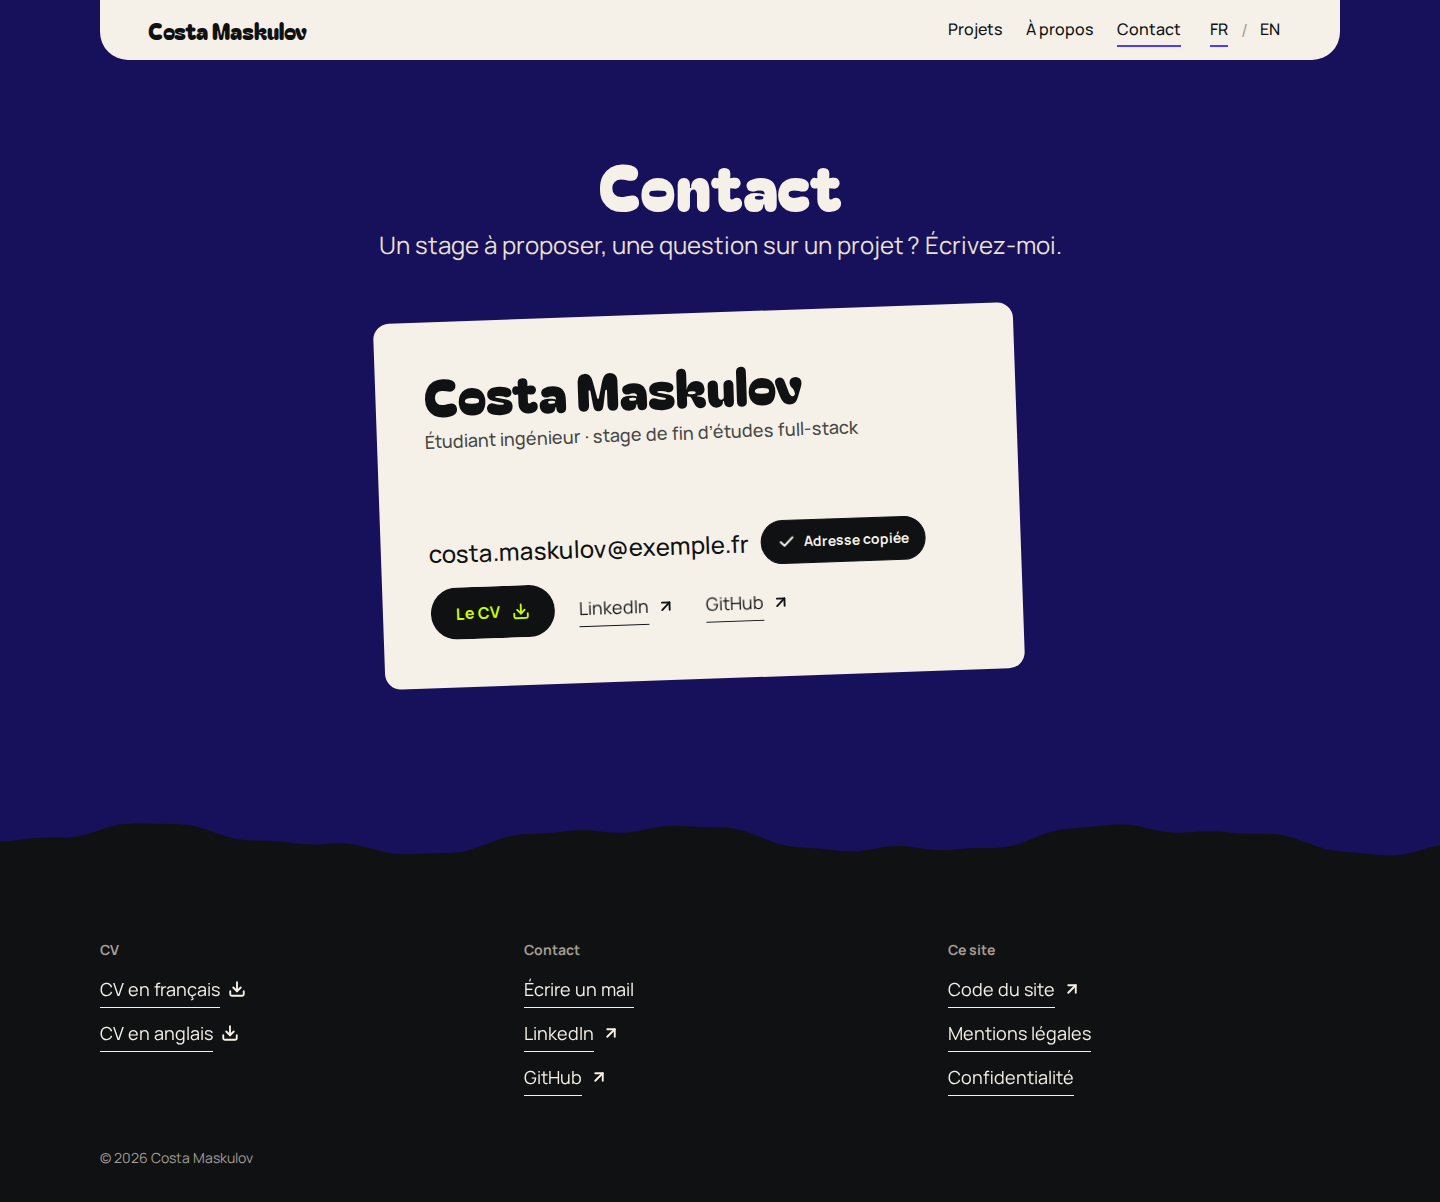
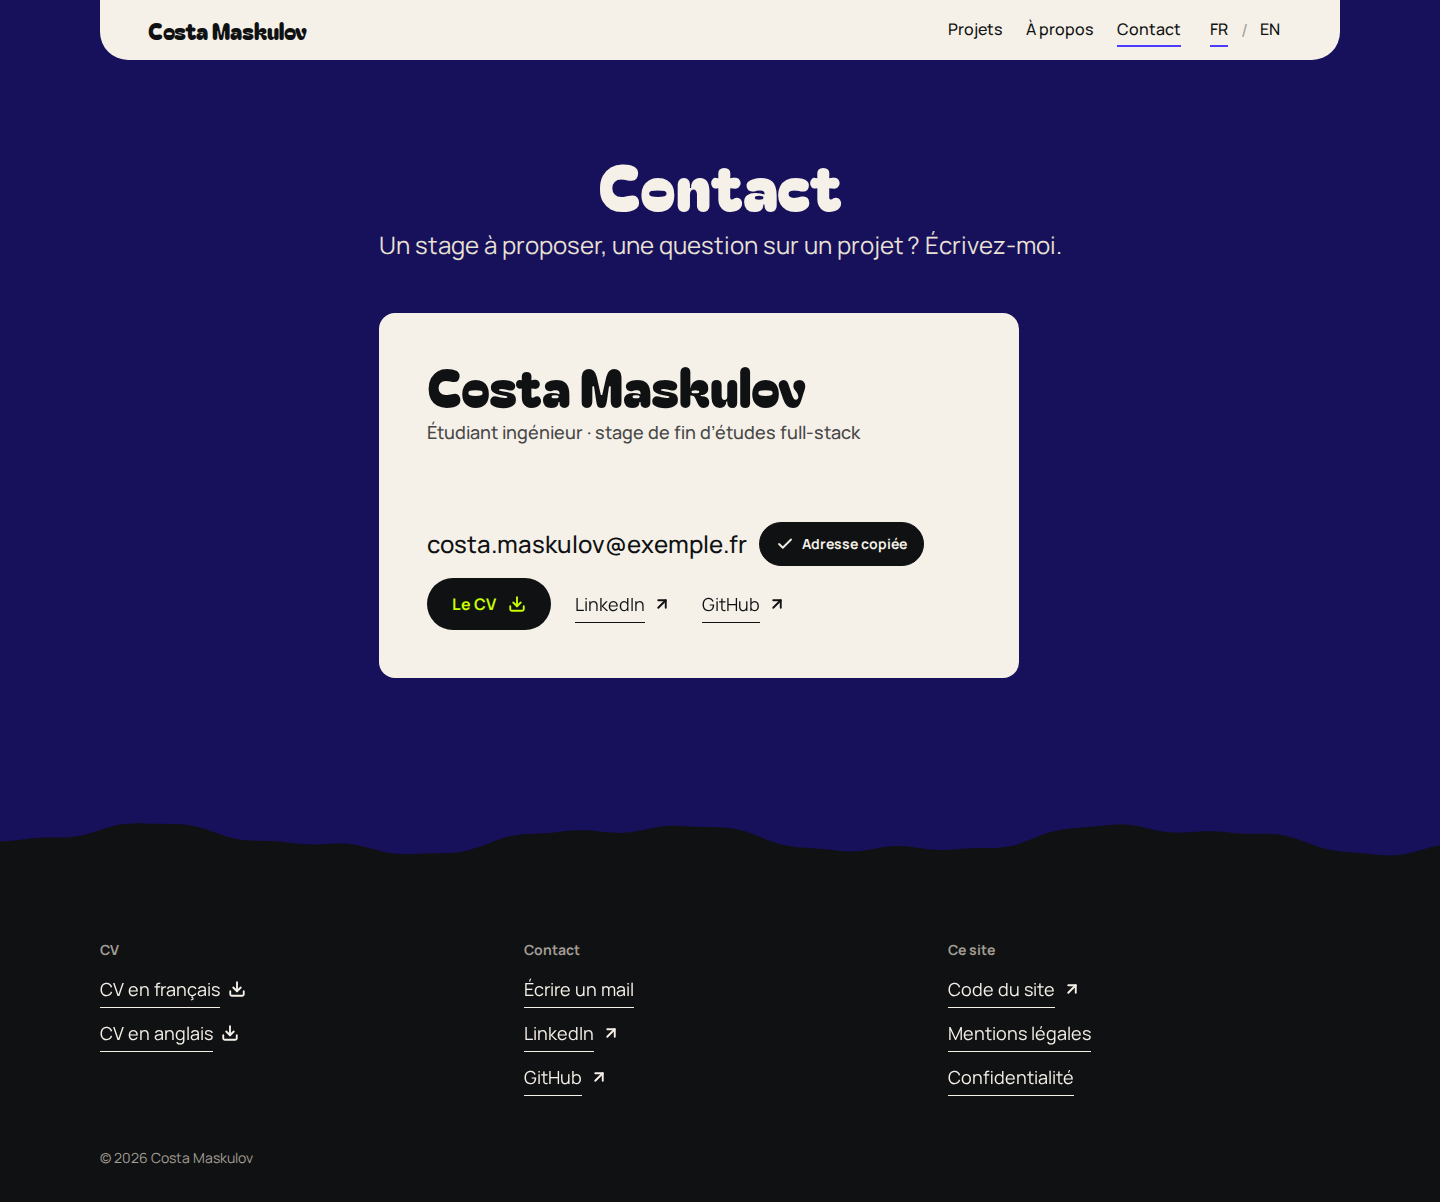
feat(maquettes): carte de visite droite sur la page Contact

diff --git a/docs/06-maquettes/contact.html b/docs/06-maquettes/contact.html
@@ -277,7 +277,7 @@ body{font-family:var(--font-body);font-size:var(--text-body);line-height:var(--l
 .cv-carte .intro{text-align:center;display:grid;gap:var(--space-3);justify-items:center;margin-bottom:var(--space-7)}
 .cv-carte .intro h1{font-family:var(--font-display);font-weight:var(--weight-regular);font-size:var(--text-h1);line-height:var(--leading-display);margin:0}
 .cv-carte .intro p{margin:0;font-size:var(--text-lead);color:var(--color-text-muted)}
-.bcard-v{width:min(100%,40rem);aspect-ratio:1.75;display:grid;align-content:space-between;gap:var(--space-5);padding:clamp(var(--space-5),4vw,var(--space-7));border-radius:var(--radius-md);transform:rotate(-2deg)}
+.bcard-v{width:min(100%,40rem);aspect-ratio:1.75;display:grid;align-content:space-between;gap:var(--space-5);padding:clamp(var(--space-5),4vw,var(--space-7));border-radius:var(--radius-md)}
 .bcard-v .who b{display:block;font-family:var(--font-display);font-weight:var(--weight-regular);font-size:clamp(2rem,1.2rem + 3vw,3.25rem);line-height:var(--leading-display)}
 .bcard-v .who span{display:block;margin-top:var(--space-2);color:var(--color-text-subtle);font-weight:var(--weight-medium)}
 .bcard-v .lines{display:grid;gap:var(--space-3)}

diff --git a/docs/decisions.md b/docs/decisions.md
@@ -89,4 +89,4 @@
 | 22/10/2026 | Étude de cas, en-tête : `MetaList` en fiche (une information par ligne, libellé à gauche, valeur en gras), à droite du titre sur bureau, sous le titre sur mobile ; capture principale en pleine largeur en dessous | Choix du propriétaire en maquette parmi ligne de cases, fiche, briques et cartel collé. À reporter dans le design system (§ `MetaList` : la grille de 2 à 5 colonnes devient une fiche) |
 | 22/10/2026 | Page À propos, compétences : le mur de briques (`SkillsWall`) est remplacé par des « affiches collées », une carte sombre inclinée par catégorie (en quinconce sur bureau, droites sur mobile), qui se posent une à une à l'arrivée à l'écran puis se redressent au survol ; une pastille violette marque les technos de ce site | Choix du propriétaire en maquette parmi mur, bento magique, grandes lignes et affiches collées : le motif des affiches collées relie l'accueil, la page Projets et l'À propos. À reporter dans le design system (`SkillsWall`) et dans l'architecture (04) |
 | 22/10/2026 | Page À propos, parcours : frise centrée alternée sur bureau (le fil au milieu, une étape à gauche, une à droite), fil à gauche sur mobile et tablette ; fil tracé au scroll inchangé. Dates, lycée et jobs étudiants à compléter plus tard | Choix du propriétaire en maquette parmi verticale, centrée alternée et horizontale : elle occupe toute la largeur et tiendra un parcours plus long. À reporter dans le design system (`Timeline`) |
-| 22/10/2026 | Page Contact : une carte de visite crème posée sur le fond violet, inclinée de -2° et immobile (pas d'effet au survol) : nom en Bagel, statut, adresse avec « Copier », CV, LinkedIn et GitHub ; le CV est ajouté au contenu prévu | Choix du propriétaire en maquette parmi affiche collée, canaux et carte de visite ; la carte ne réagit pas au survol, à sa demande. Le CV s'ajoute au contenu de l'architecture (04 : mail, LinkedIn, GitHub), utile au recruteur. Adresse LinkedIn à compléter |
+| 22/10/2026 | Page Contact : une carte de visite crème posée sur le fond violet, droite et immobile (ni inclinaison, ni effet au survol) : nom en Bagel, statut, adresse avec « Copier », CV, LinkedIn et GitHub ; le CV est ajouté au contenu prévu | Choix du propriétaire en maquette parmi affiche collée, canaux et carte de visite ; la carte reste droite et ne réagit pas au survol, à sa demande. Le CV s'ajoute au contenu de l'architecture (04 : mail, LinkedIn, GitHub), utile au recruteur. Adresse LinkedIn à compléter |
